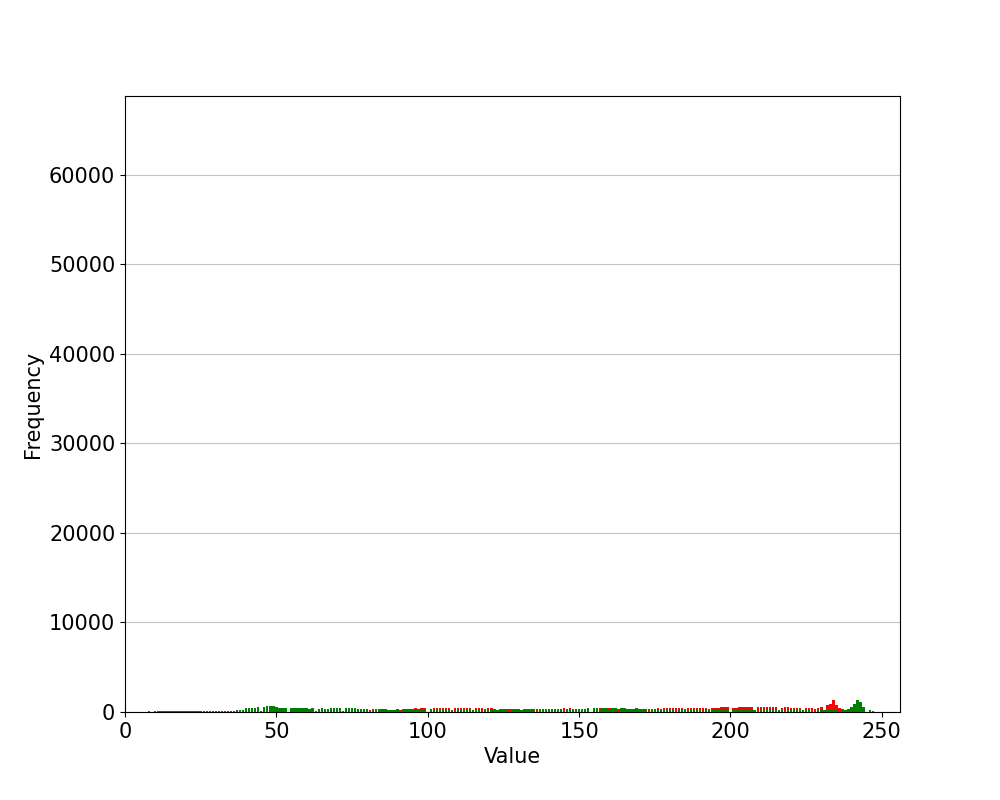
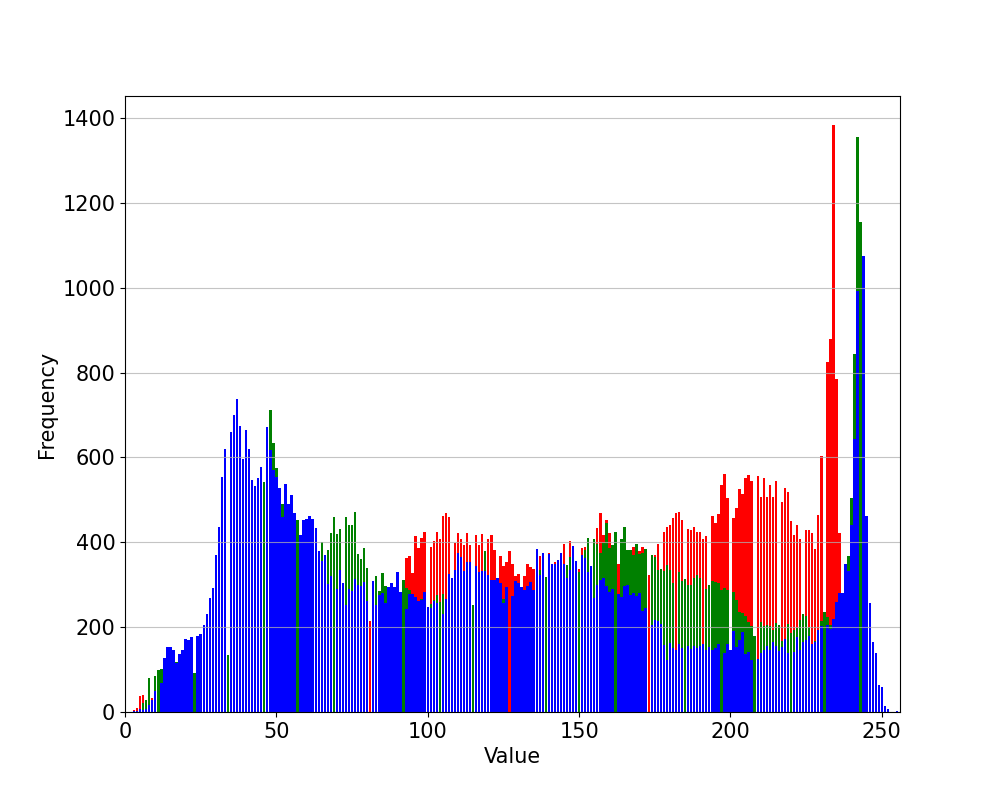
Fixed looping through colors

diff --git a/Labs/HistogramRGB.py b/Labs/HistogramRGB.py
@@ -96,7 +96,7 @@ class HistogramRGB:
         vMax = [0] * 3
         vMin = [255] * 3
 
-        for color in range(0, 2):
+        for color in range(3):
             for l in range(length):
                 for w in range(width):
                     pom = matrix[l, w][color]
@@ -105,7 +105,76 @@ class HistogramRGB:
                     if pom < vMin[color]:
                         vMin[color] = pom
 
-        for color in range(0, 2):
+        for color in range(3):
+            for l in range(length):
+                for w in range(width):
+                    pom = ((int(matrix[l, w][color]) - vMin[color]) * 255) / (vMax[color] - vMin[color])
+                    if pom > 255:
+                        pom = 255
+                    elif pom < 0:
+                        pom = 0
+                    result[l, w][color] = pom
+
+        path = str(ex) + str(pictureName) + '_extended_histogram.png'
+        self.calculateHistogram(result, path)
+        path = str(ex) + str(pictureName) + '_extended.png'
+        self.savePicture(result, path)
+
+    def oneThresholdHistogram(self):
+        length, width, pictureName = self.pic.getPictureParameters()
+        matrix = self.pic.getGreyMatrix()
+        # save basic histogram of modified picture
+        ex = './ExEffects/6/64/'
+        path = str(ex) + str(pictureName) + '_histogram.png'
+        self.calculateHistogram(matrix, path)
+        result = np.zeros((length, width, 3), np.uint8)
+
+        added = [0] * 3
+        mean = [0] * 3
+
+        for color in range(3):
+            for l in range(length):
+                for w in range(width):
+                    added[color] += matrix[l, w][color]
+            mean[color] = int(round(added[color] / (length * width)))
+
+        for color in range(3):
+            for l in range(length):
+                for w in range(width):
+                    pom = matrix[l, w][color]
+                    result[l, w][color] = 0 if (pom < mean[color]) else 255
+
+        path = str(ex) + str(pictureName) + '_oneThreshold_histogram.png'
+        self.calculateHistogram(result, path)
+        path = str(ex) + str(pictureName) + '_oneThreshold.png'
+        self.savePicture(result, path)
+
+    def multiThresholdHistogram(self, bins):
+        length, width, pictureName = self.pic.getPictureParameters()
+        matrix = self.pic.getGreyMatrix()
+        # save basic histogram of modified picture
+        ex = './ExEffects/6/65/'
+        path = str(ex) + str(pictureName) + '_histogram.png'
+        self.calculateHistogram(matrix, path)
+        result = np.zeros((length, width, 3), np.uint8)
+
+        vMax = [0] * 3
+        vMin = [255] * 3
+
+        for color in range(2):
+            for l in range(length):
+                for w in range(width):
+                    pom = matrix[l, w][color]
+                    if pom > vMax[color] and pom != 255:
+                        vMax[color] = pom
+                    if pom < vMin[color]:
+                        vMin[color] = pom
+
+        scale = [0] * 3
+        for k in range(3):
+            scale[k] = vMax[k] / (bins - 1)
+
+        for color in range(2):
             for l in range(length):
                 for w in range(width):
                     pom = ((int(matrix[l, w][color]) - vMin[color]) * 255) / (vMax[color] - vMin[color])
@@ -188,6 +257,7 @@ if __name__ == '__main__':
     plot.moveHistogram(-50)
     '''
     plot.extendHistogram()
+    plot.oneThresholdHistogram()
     '''
     plot.localHistogram()
     plot.globalHistogram()
